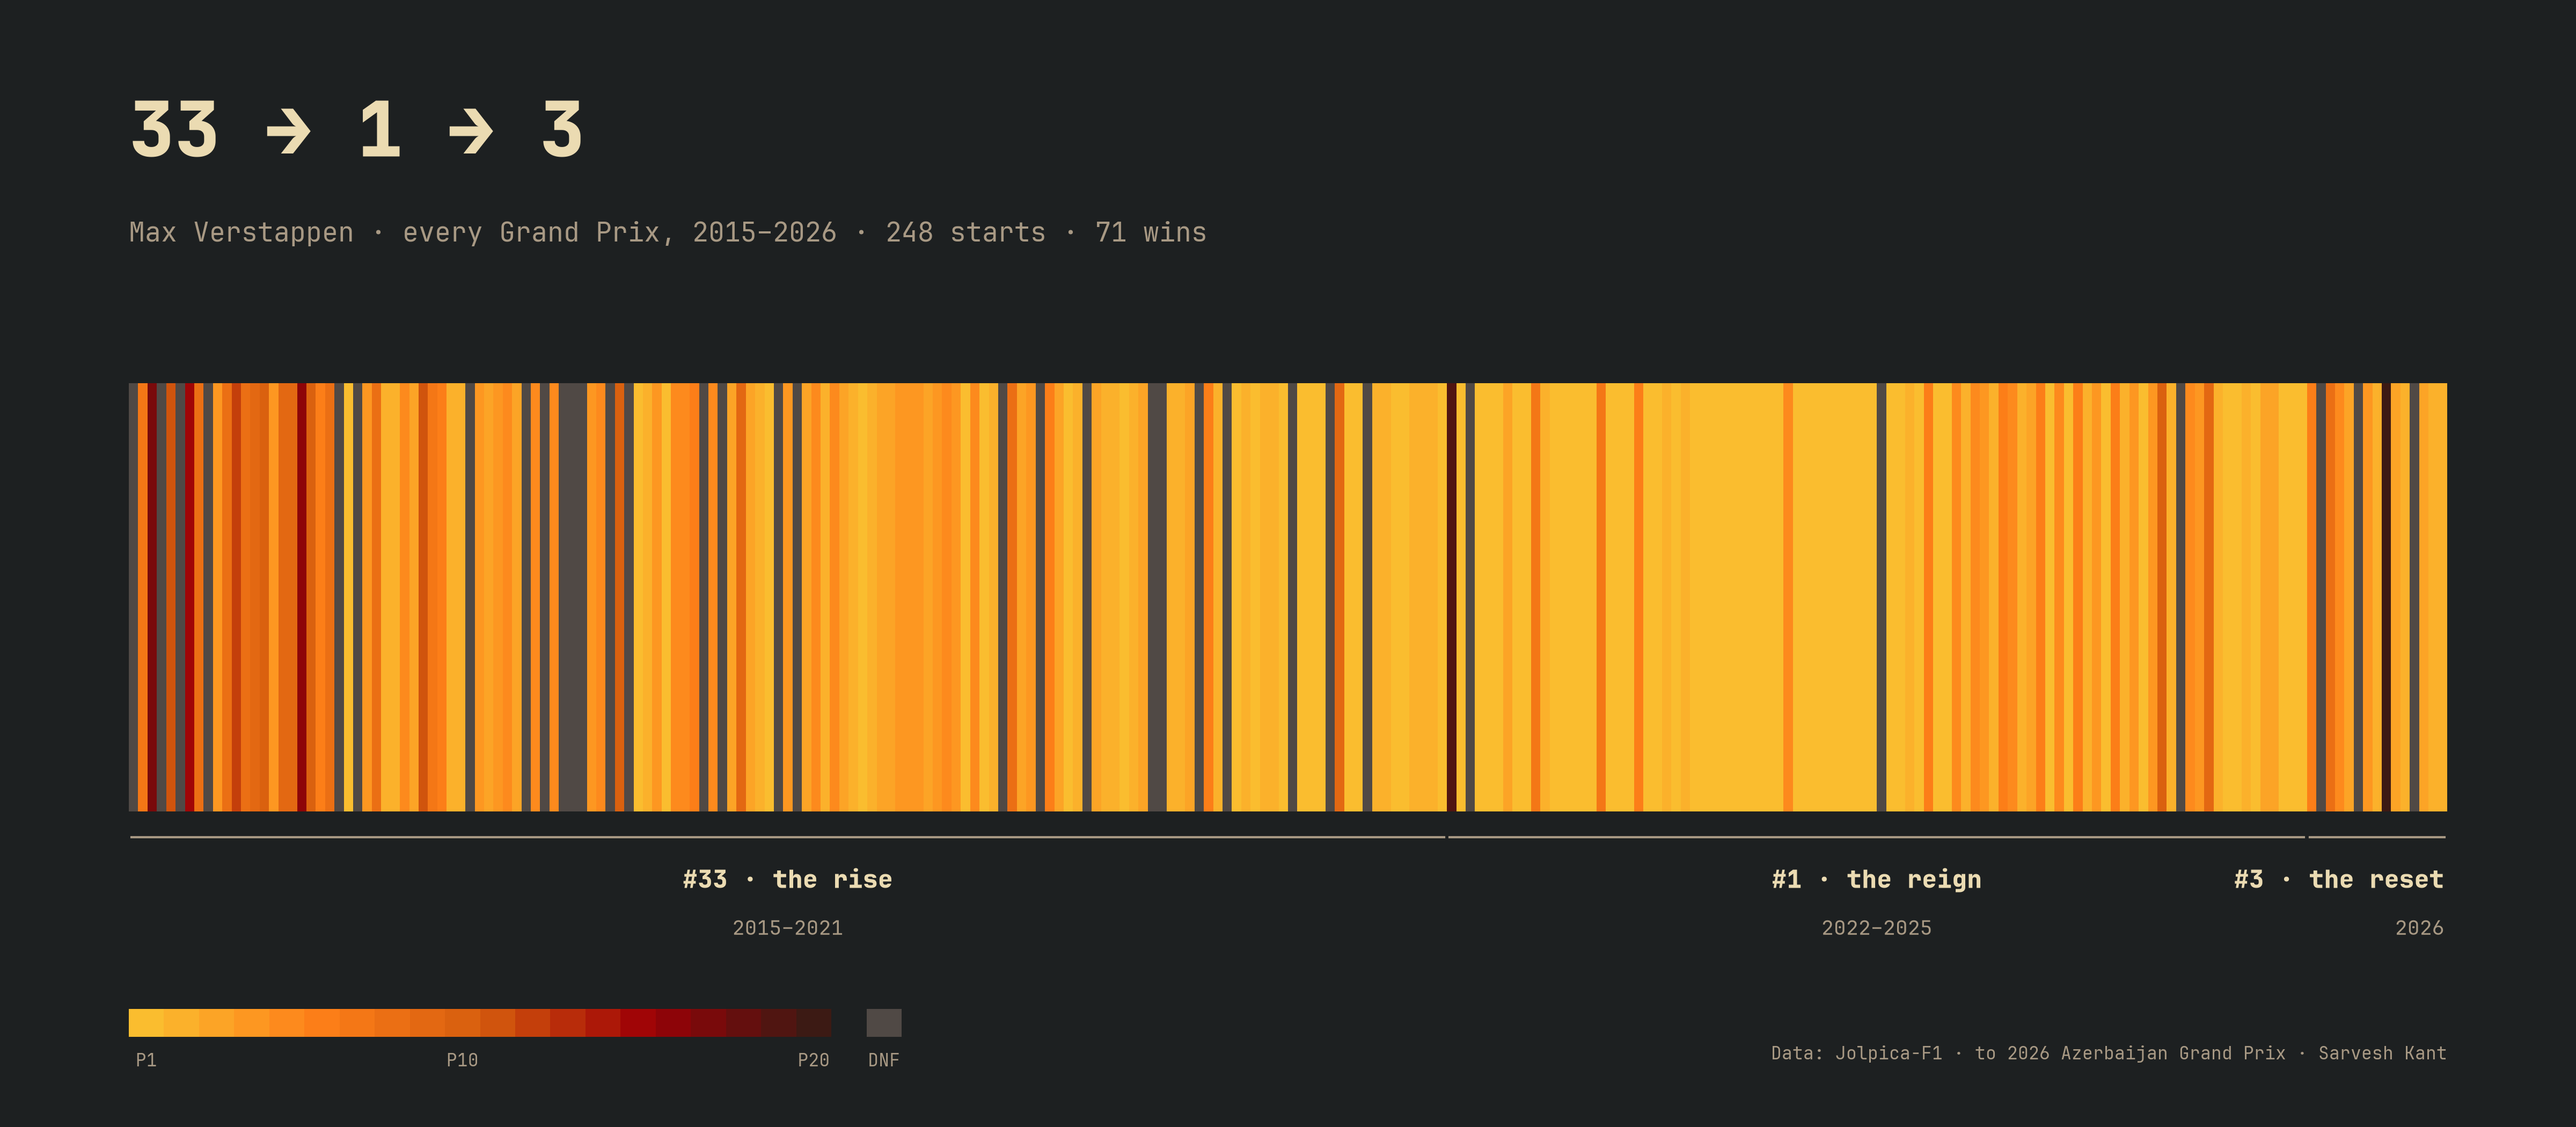
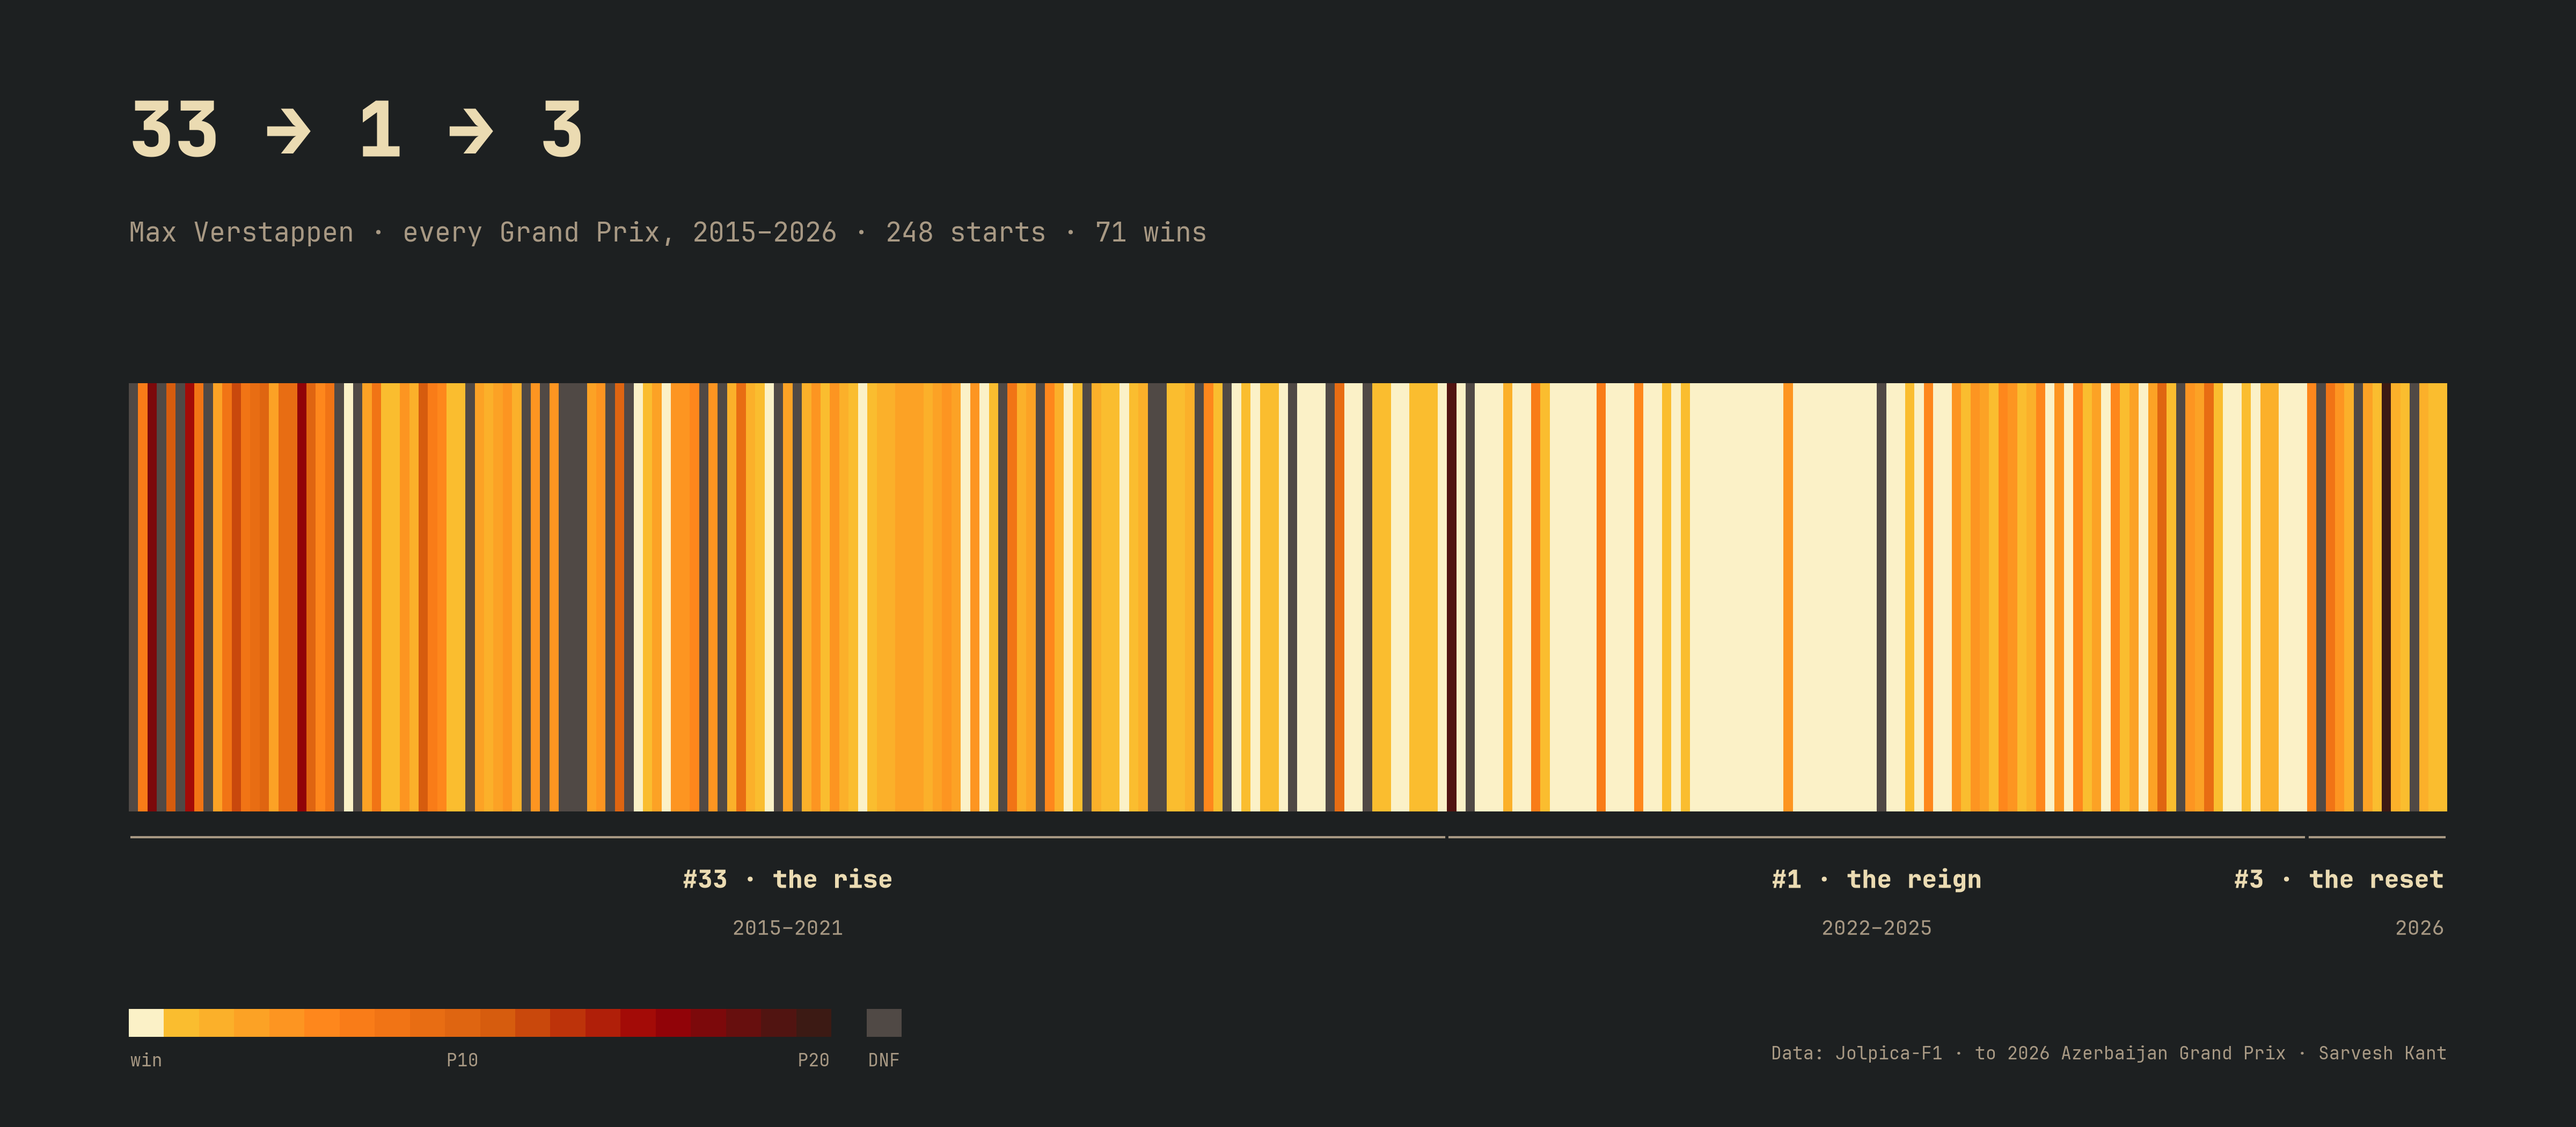
chart: poster wins in cream so they stand apart from P2-P3

diff --git a/src/poster.py b/src/poster.py
@@ -1,7 +1,7 @@
 """Poster edition: "career stripes" — one vertical stripe per Grand Prix.
 
-Colour = finishing position on a sequential yellow→orange→deep-red ramp (P1
-brightest), not classified = neutral gray. Era labels underneath. Inspired by
+Colour = win in cream (the brightest stripe: wins "glow"), P2–P20 on a
+sequential yellow→orange→deep-red ramp, not classified = neutral gray. Era labels underneath. Inspired by
 Ed Hawkins' warming stripes: no axes, the shape of the career carries it.
 Output: output/static/poster_career_stripes.png (300 dpi) + a 1200×630 social card.
 """
@@ -20,7 +20,7 @@ from matplotlib.patches import Rectangle
 from src import config, features
 from src.charts.common import ERA_LABELS, gp_sequence
 
-BG, TEXT, MUTED, DNF = "#1d2021", "#ebdbb2", "#a89984", "#504945"
+BG, TEXT, MUTED, DNF, WIN = "#1d2021", "#ebdbb2", "#a89984", "#504945", "#fbf1c7"
 RAMP = LinearSegmentedColormap.from_list("stripes", ["#fabd2f", "#fe8019", "#d65d0e", "#9d0006", "#3c1a14"])
 
 
@@ -39,7 +39,9 @@ def _font() -> str:
 def colour(position: int, classified: bool) -> tuple:
     if not classified:
         return to_rgba(DNF)
-    return RAMP(min(position - 1, 19) / 19)
+    if position == 1:
+        return to_rgba(WIN)
+    return RAMP(min(position - 2, 18) / 18)
 
 
 def draw(width_in: float, height_in: float, *, social: bool = False) -> plt.Figure:
@@ -84,7 +86,7 @@ def draw(width_in: float, height_in: float, *, social: bool = False) -> plt.Figu
     lg.set_xlim(0, 22)
     lg.set_ylim(0, 1)
     lg.axis("off")
-    for x, s in [(0.5, "P1"), (9.5, "P10"), (19.5, "P20"), (21.5, "DNF")]:
+    for x, s in [(0.5, "win"), (9.5, "P10"), (19.5, "P20"), (21.5, "DNF")]:
         lg.text(x, -0.4, s, color=MUTED, ha="center", va="top", fontsize=8 if not social else 10)
     fig.text(0.95, 0.06, f"Data: Jolpica-F1 · to {cut.season} {cut.race_name} · Sarvesh Kant",
              color=MUTED, ha="right", fontsize=8 if not social else 10)
